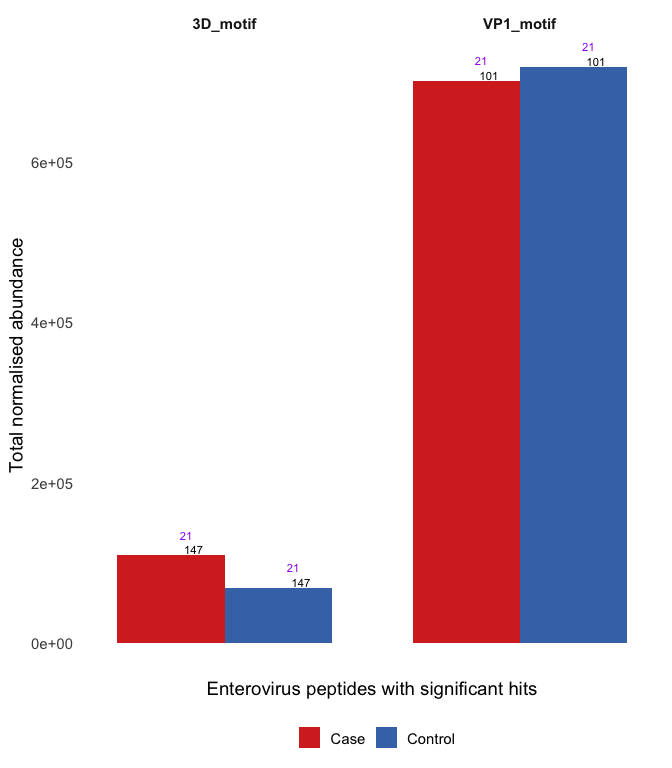
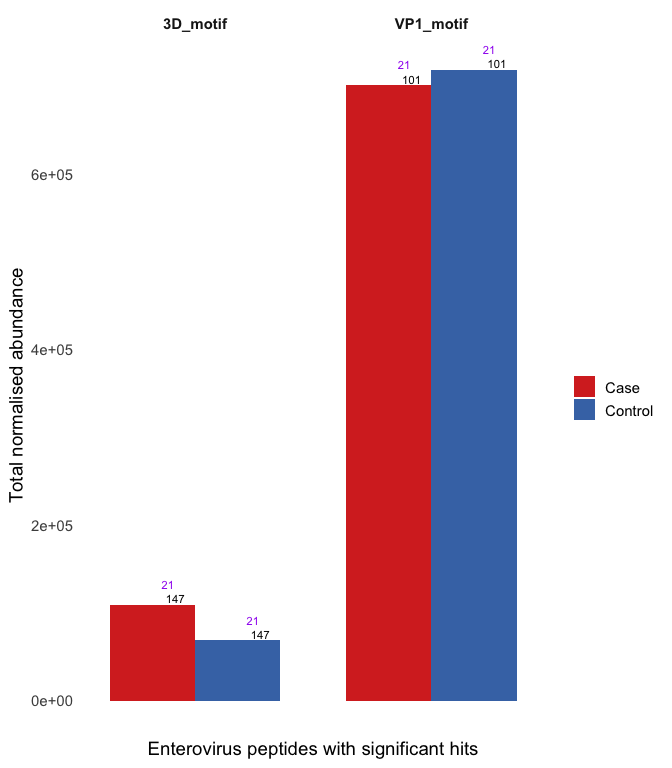
tidied up :broom:

diff --git a/04_test_peak_significance.md b/04_test_peak_significance.md
@@ -8,16 +8,16 @@ library(glmmTMB)
 library(gt)
 ```
 
-Use data prepared in `01_figure_01_CXVB_antigen_mapping.Rmd` and add
-extra metadata for VIGR so we can include maternal T1D status in the
-models
+Read in data prepared in `00_prepare_datasets.Rmd` and add normalised
+counts measured in RPK and library size log variable to use as an offset
+for sequencing depth
 
 ``` r
 endia_virscan_onset <- read_rds("cache/endia_virscan_metadata.rds") %>%
   filter(onset_visit == 1) %>% 
   group_by(sample_id) %>% 
   mutate(rpk = abundance / sum(abundance) * 100000,
-         log_lib = log(sum(abundance) + 1e-8)) %>%  # add offset for testing 
+         log_lib = log(sum(abundance) + 1e-8)) %>%  # add offset 
   ungroup()
 
 vigr_virscan_metadata <- read_rds("cache/vigr_virscan_metadata.rds") %>% 
@@ -25,13 +25,6 @@ vigr_virscan_metadata <- read_rds("cache/vigr_virscan_metadata.rds") %>%
   mutate(rpk = abundance / sum(abundance) * 100000,
          log_lib = log(sum(abundance) + 1e-8)) %>% 
   ungroup()
-
-vigr_extra_metadata <- readxl::read_xlsx("raw_data/metadata/VIGR_HLA.xlsx") %>% 
-  select(Participant_Id, UNSW, Diabetes, Risk_group) %>% 
-  mutate(maternal_T1D = if_else(Diabetes == "Mother", "1", "0"))
-
-vigr_virscan_metadata_w_maternal_T1D <- vigr_virscan_metadata %>% 
-  left_join(vigr_extra_metadata, join_by(sample_id == Participant_Id, UNSW))
 ```
 
 ``` bash
@@ -53,7 +46,7 @@ endia_motif_results <- endia_blastp_ev_motifs %>%
     left_join(endia_virscan_onset, by = join_by(qaccver == pep_id)) 
 
 vigr_motif_results <- vigr_blastp_ev_motifs %>% 
-   left_join(vigr_virscan_metadata_w_maternal_T1D, by = join_by(qaccver == pep_id))
+   left_join(vigr_virscan_metadata, by = join_by(qaccver == pep_id))
 ```
 
 ## ENDIA
@@ -83,7 +76,7 @@ endia_motif_w_genera %>%
             vjust = -2, hjust = -0.7, size = 3, color = "purple") +
   facet_wrap(~ saccver) +
   theme_minimal(base_size = 14) +
-  theme(legend.position = "bottom",
+  theme(legend.position = "right",
         line = element_blank(),
       axis.text.x = element_blank(), 
       strip.text = element_text(face = "bold")) +
@@ -108,7 +101,7 @@ tidy_looksie <- function(glm_model) {
     glm_model %>% 
     broom.mixed::tidy(effect = "fixed", conf.int = TRUE, exponentiate = TRUE) %>% 
     select(term, estimate, p.value, conf.low, conf.high) %>% 
-    mutate(significant = ifelse(p.value <= 0.10, T, F))}
+    mutate(significant = ifelse(p.value < 0.1, T, F))}
 ```
 
 ### Stats ENDIA
@@ -202,7 +195,7 @@ endia_3d_model_xy %>% tidy_looksie()
     ## 6 age_sample_collection_month   1.00    0.842   0.958       1.05  FALSE      
     ## 7 maternal_T1D1                 0.604   0.464   0.157       2.32  FALSE
 
-3D doesn’t seem to be a good predictor for IA. However, there is
+3D does not appear to be a good predictor for IA. However, there is
 enrichment of 3D in cases
 
 This enrichment appears in a statistical test too:
@@ -414,7 +407,7 @@ vigr_motif_w_genera %>%
             vjust = -2, hjust = -0.7, size = 3, color = "purple") +
   facet_wrap(~ saccver) +
   theme_minimal(base_size = 14) +
-  theme(legend.position = "bottom",
+  theme(legend.position = "right",
         line = element_blank(),
       axis.text.x = element_blank(), 
       strip.text = element_text(face = "bold")) +
@@ -484,7 +477,7 @@ vigr_3d_model %>% tidy_looksie()
     ## 4 HLA_StatusUnknown    1.21    0.862   0.147       9.93 FALSE      
     ## 5 Age                  1.00    0.988   0.867       1.16 FALSE      
     ## 6 SexM                 1.05    0.912   0.410       2.72 FALSE      
-    ## 7 maternal_T1D1        0.503   0.194   0.178       1.42 FALSE
+    ## 7 maternal_T1DT1D      0.503   0.194   0.178       1.42 FALSE
 
 ``` r
 vigr_3d_abundance_as_outcome <- glmmTMB(formula = total_abundance ~ Condition + HLA_Status + Age + Sex + maternal_T1D + offset(log_lib) + (1|Nest) + (1|My_name),
@@ -504,7 +497,7 @@ vigr_3d_abundance_as_outcome %>% tidy_looksie()
     ## 4 HLA_StatusUnknown    0.572 0.579      0.0799     4.10  FALSE      
     ## 5 Age                  0.825 0.00205    0.730      0.932 TRUE       
     ## 6 SexM                 0.670 0.382      0.273      1.64  FALSE      
-    ## 7 maternal_T1D1        0.779 0.591      0.313      1.94  FALSE
+    ## 7 maternal_T1DT1D      0.779 0.591      0.313      1.94  FALSE
 
 #### VIGR VP1 region
 
@@ -527,7 +520,7 @@ vigr_vp1_model %>% tidy_looksie()
     ## 4 HLA_StatusUnknown    1.09    0.935 0.135          8.80 FALSE      
     ## 5 Age                  0.983   0.802 0.862          1.12 FALSE      
     ## 6 SexM                 1.01    0.988 0.390          2.60 FALSE      
-    ## 7 maternal_T1D1        0.468   0.156 0.164          1.33 FALSE
+    ## 7 maternal_T1DT1D      0.468   0.156 0.164          1.33 FALSE
 
 #### VIGR VP1 Sex stratified
 
@@ -544,13 +537,13 @@ vigr_vp1_xx_model %>% tidy_looksie()
 ```
 
     ## # A tibble: 5 × 6
-    ##   term           estimate p.value  conf.low     conf.high significant
-    ##   <chr>             <dbl>   <dbl>     <dbl>         <dbl> <lgl>      
-    ## 1 (Intercept)     606.      0.431 0.0000732 5015163363.   FALSE      
-    ## 2 log_total_rpk     0.502   0.379 0.108              2.33 FALSE      
-    ## 3 HLA_StatusRisk    1.40    0.629 0.355              5.56 FALSE      
-    ## 4 Age               1.00    0.999 0.833              1.20 FALSE      
-    ## 5 maternal_T1D1     0.559   0.408 0.141              2.22 FALSE
+    ##   term            estimate p.value  conf.low     conf.high significant
+    ##   <chr>              <dbl>   <dbl>     <dbl>         <dbl> <lgl>      
+    ## 1 (Intercept)      606.      0.431 0.0000732 5015163363.   FALSE      
+    ## 2 log_total_rpk      0.502   0.379 0.108              2.33 FALSE      
+    ## 3 HLA_StatusRisk     1.40    0.629 0.355              5.56 FALSE      
+    ## 4 Age                1.00    0.999 0.833              1.20 FALSE      
+    ## 5 maternal_T1DT1D    0.559   0.408 0.141              2.22 FALSE
 
 Males VP1 motif
 
@@ -572,7 +565,7 @@ vigr_vp1_xy_model %>% tidy_looksie()
     ## 3 HLA_StatusRisk      0.431    0.378 6.63e- 2       2.80 FALSE      
     ## 4 HLA_StatusUnknown   0.936    0.952 1.08e- 1       8.10 FALSE      
     ## 5 Age                 0.980    0.840 8.09e- 1       1.19 FALSE      
-    ## 6 maternal_T1D1       0.297    0.161 5.45e- 2       1.62 FALSE
+    ## 6 maternal_T1DT1D     0.297    0.161 5.45e- 2       1.62 FALSE
 
 ### Generating pretty tables with the `gt` package from the GLM model results
 
@@ -580,7 +573,7 @@ vigr_vp1_xy_model %>% tidy_looksie()
 
 **ENDIA**
 
-<div id="cqvbnkhzsh" style="padding-left:0px;padding-right:0px;padding-top:10px;padding-bottom:10px;overflow-x:auto;overflow-y:auto;width:auto;height:auto;">
+<div id="mhqnnyjzkk" style="padding-left:0px;padding-right:0px;padding-top:10px;padding-bottom:10px;overflow-x:auto;overflow-y:auto;width:auto;height:auto;">
   &#10;  <table class="gt_table" data-quarto-disable-processing="false" data-quarto-bootstrap="false" style="-webkit-font-smoothing: antialiased; -moz-osx-font-smoothing: grayscale; font-family: system-ui, 'Segoe UI', Roboto, Helvetica, Arial, sans-serif, 'Apple Color Emoji', 'Segoe UI Emoji', 'Segoe UI Symbol', 'Noto Color Emoji'; display: table; border-collapse: collapse; line-height: normal; margin-left: auto; margin-right: auto; color: #333333; font-size: 16px; font-weight: normal; font-style: normal; background-color: #FFFFFF; width: auto; border-top-style: solid; border-top-width: 2px; border-top-color: #A8A8A8; border-right-style: none; border-right-width: 2px; border-right-color: #D3D3D3; border-bottom-style: solid; border-bottom-width: 2px; border-bottom-color: #A8A8A8; border-left-style: none; border-left-width: 2px; border-left-color: #D3D3D3;" bgcolor="#FFFFFF">
   <thead style="border-style: none;">
     <tr class="gt_heading" style="border-style: none; background-color: #FFFFFF; text-align: center; border-bottom-color: #FFFFFF; border-left-style: none; border-left-width: 1px; border-left-color: #D3D3D3; border-right-style: none; border-right-width: 1px; border-right-color: #D3D3D3;" bgcolor="#FFFFFF" align="center">
@@ -668,7 +661,7 @@ vigr_vp1_xy_model %>% tidy_looksie()
 
 **VIGR**
 
-<div id="ihpbblaoka" style="padding-left:0px;padding-right:0px;padding-top:10px;padding-bottom:10px;overflow-x:auto;overflow-y:auto;width:auto;height:auto;">
+<div id="tyaapnkbfg" style="padding-left:0px;padding-right:0px;padding-top:10px;padding-bottom:10px;overflow-x:auto;overflow-y:auto;width:auto;height:auto;">
   &#10;  <table class="gt_table" data-quarto-disable-processing="false" data-quarto-bootstrap="false" style="-webkit-font-smoothing: antialiased; -moz-osx-font-smoothing: grayscale; font-family: system-ui, 'Segoe UI', Roboto, Helvetica, Arial, sans-serif, 'Apple Color Emoji', 'Segoe UI Emoji', 'Segoe UI Symbol', 'Noto Color Emoji'; display: table; border-collapse: collapse; line-height: normal; margin-left: auto; margin-right: auto; color: #333333; font-size: 16px; font-weight: normal; font-style: normal; background-color: #FFFFFF; width: auto; border-top-style: solid; border-top-width: 2px; border-top-color: #A8A8A8; border-right-style: none; border-right-width: 2px; border-right-color: #D3D3D3; border-bottom-style: solid; border-bottom-width: 2px; border-bottom-color: #A8A8A8; border-left-style: none; border-left-width: 2px; border-left-color: #D3D3D3;" bgcolor="#FFFFFF">
   <thead style="border-style: none;">
     <tr class="gt_heading" style="border-style: none; background-color: #FFFFFF; text-align: center; border-bottom-color: #FFFFFF; border-left-style: none; border-left-width: 1px; border-left-color: #D3D3D3; border-right-style: none; border-right-width: 1px; border-right-color: #D3D3D3;" bgcolor="#FFFFFF" align="center">
@@ -706,7 +699,7 @@ vigr_vp1_xy_model %>% tidy_looksie()
 <td headers="VIGR males (Case n = 11, Control n = 11) stub_1_4 CI lower" class="gt_row gt_left" style="border-style: none; padding-top: 8px; padding-bottom: 8px; padding-left: 5px; padding-right: 5px; margin: 10px; border-top-style: solid; border-top-width: 1px; border-top-color: #D3D3D3; border-left-style: none; border-left-width: 1px; border-left-color: #D3D3D3; border-right-style: none; border-right-width: 1px; border-right-color: #D3D3D3; vertical-align: middle; overflow-x: hidden; text-align: left;" valign="middle" align="left">0.809</td>
 <td headers="VIGR males (Case n = 11, Control n = 11) stub_1_4 CI upper" class="gt_row gt_left" style="border-style: none; padding-top: 8px; padding-bottom: 8px; padding-left: 5px; padding-right: 5px; margin: 10px; border-top-style: solid; border-top-width: 1px; border-top-color: #D3D3D3; border-left-style: none; border-left-width: 1px; border-left-color: #D3D3D3; border-right-style: none; border-right-width: 1px; border-right-color: #D3D3D3; vertical-align: middle; overflow-x: hidden; text-align: left;" valign="middle" align="left">1.188</td>
 <td headers="VIGR males (Case n = 11, Control n = 11) stub_1_4 p.value" class="gt_row gt_left" style="border-style: none; padding-top: 8px; padding-bottom: 8px; padding-left: 5px; padding-right: 5px; margin: 10px; border-top-style: solid; border-top-width: 1px; border-top-color: #D3D3D3; border-left-style: none; border-left-width: 1px; border-left-color: #D3D3D3; border-right-style: none; border-right-width: 1px; border-right-color: #D3D3D3; vertical-align: middle; overflow-x: hidden; text-align: left;" valign="middle" align="left">0.840</td></tr>
-    <tr style="border-style: none;"><th id="stub_1_5" scope="row" class="gt_row gt_left gt_stub" style="border-style: none; padding-top: 8px; padding-bottom: 8px; margin: 10px; border-top-style: solid; border-top-width: 1px; border-top-color: #D3D3D3; border-left-style: none; border-left-width: 1px; border-left-color: #D3D3D3; vertical-align: middle; overflow-x: hidden; color: #333333; background-color: #FFFFFF; font-size: 100%; font-weight: initial; text-transform: inherit; border-right-style: solid; border-right-width: 2px; border-right-color: #D3D3D3; padding-left: 5px; padding-right: 5px; text-align: left;" valign="middle" bgcolor="#FFFFFF" align="left">maternal_T1D1</th>
+    <tr style="border-style: none;"><th id="stub_1_5" scope="row" class="gt_row gt_left gt_stub" style="border-style: none; padding-top: 8px; padding-bottom: 8px; margin: 10px; border-top-style: solid; border-top-width: 1px; border-top-color: #D3D3D3; border-left-style: none; border-left-width: 1px; border-left-color: #D3D3D3; vertical-align: middle; overflow-x: hidden; color: #333333; background-color: #FFFFFF; font-size: 100%; font-weight: initial; text-transform: inherit; border-right-style: solid; border-right-width: 2px; border-right-color: #D3D3D3; padding-left: 5px; padding-right: 5px; text-align: left;" valign="middle" bgcolor="#FFFFFF" align="left">maternal_T1DT1D</th>
 <td headers="VIGR males (Case n = 11, Control n = 11) stub_1_5 RR" class="gt_row gt_left" style="border-style: none; padding-top: 8px; padding-bottom: 8px; padding-left: 5px; padding-right: 5px; margin: 10px; border-top-style: solid; border-top-width: 1px; border-top-color: #D3D3D3; border-left-style: none; border-left-width: 1px; border-left-color: #D3D3D3; border-right-style: none; border-right-width: 1px; border-right-color: #D3D3D3; vertical-align: middle; overflow-x: hidden; text-align: left;" valign="middle" align="left">0.297</td>
 <td headers="VIGR males (Case n = 11, Control n = 11) stub_1_5 CI lower" class="gt_row gt_left" style="border-style: none; padding-top: 8px; padding-bottom: 8px; padding-left: 5px; padding-right: 5px; margin: 10px; border-top-style: solid; border-top-width: 1px; border-top-color: #D3D3D3; border-left-style: none; border-left-width: 1px; border-left-color: #D3D3D3; border-right-style: none; border-right-width: 1px; border-right-color: #D3D3D3; vertical-align: middle; overflow-x: hidden; text-align: left;" valign="middle" align="left">0.054</td>
 <td headers="VIGR males (Case n = 11, Control n = 11) stub_1_5 CI upper" class="gt_row gt_left" style="border-style: none; padding-top: 8px; padding-bottom: 8px; padding-left: 5px; padding-right: 5px; margin: 10px; border-top-style: solid; border-top-width: 1px; border-top-color: #D3D3D3; border-left-style: none; border-left-width: 1px; border-left-color: #D3D3D3; border-right-style: none; border-right-width: 1px; border-right-color: #D3D3D3; vertical-align: middle; overflow-x: hidden; text-align: left;" valign="middle" align="left">1.622</td>
@@ -729,7 +722,7 @@ vigr_vp1_xy_model %>% tidy_looksie()
 <td headers="VIGR females (Case n = 10, Control n = 10) stub_1_8 CI lower" class="gt_row gt_left" style="border-style: none; padding-top: 8px; padding-bottom: 8px; padding-left: 5px; padding-right: 5px; margin: 10px; border-top-style: solid; border-top-width: 1px; border-top-color: #D3D3D3; border-left-style: none; border-left-width: 1px; border-left-color: #D3D3D3; border-right-style: none; border-right-width: 1px; border-right-color: #D3D3D3; vertical-align: middle; overflow-x: hidden; text-align: left;" valign="middle" align="left">0.833</td>
 <td headers="VIGR females (Case n = 10, Control n = 10) stub_1_8 CI upper" class="gt_row gt_left" style="border-style: none; padding-top: 8px; padding-bottom: 8px; padding-left: 5px; padding-right: 5px; margin: 10px; border-top-style: solid; border-top-width: 1px; border-top-color: #D3D3D3; border-left-style: none; border-left-width: 1px; border-left-color: #D3D3D3; border-right-style: none; border-right-width: 1px; border-right-color: #D3D3D3; vertical-align: middle; overflow-x: hidden; text-align: left;" valign="middle" align="left">1.200</td>
 <td headers="VIGR females (Case n = 10, Control n = 10) stub_1_8 p.value" class="gt_row gt_left" style="border-style: none; padding-top: 8px; padding-bottom: 8px; padding-left: 5px; padding-right: 5px; margin: 10px; border-top-style: solid; border-top-width: 1px; border-top-color: #D3D3D3; border-left-style: none; border-left-width: 1px; border-left-color: #D3D3D3; border-right-style: none; border-right-width: 1px; border-right-color: #D3D3D3; vertical-align: middle; overflow-x: hidden; text-align: left;" valign="middle" align="left">0.999</td></tr>
-    <tr style="border-style: none;"><th id="stub_1_9" scope="row" class="gt_row gt_left gt_stub" style="border-style: none; padding-top: 8px; padding-bottom: 8px; margin: 10px; border-top-style: solid; border-top-width: 1px; border-top-color: #D3D3D3; border-left-style: none; border-left-width: 1px; border-left-color: #D3D3D3; vertical-align: middle; overflow-x: hidden; color: #333333; background-color: #FFFFFF; font-size: 100%; font-weight: initial; text-transform: inherit; border-right-style: solid; border-right-width: 2px; border-right-color: #D3D3D3; padding-left: 5px; padding-right: 5px; text-align: left;" valign="middle" bgcolor="#FFFFFF" align="left">maternal_T1D1</th>
+    <tr style="border-style: none;"><th id="stub_1_9" scope="row" class="gt_row gt_left gt_stub" style="border-style: none; padding-top: 8px; padding-bottom: 8px; margin: 10px; border-top-style: solid; border-top-width: 1px; border-top-color: #D3D3D3; border-left-style: none; border-left-width: 1px; border-left-color: #D3D3D3; vertical-align: middle; overflow-x: hidden; color: #333333; background-color: #FFFFFF; font-size: 100%; font-weight: initial; text-transform: inherit; border-right-style: solid; border-right-width: 2px; border-right-color: #D3D3D3; padding-left: 5px; padding-right: 5px; text-align: left;" valign="middle" bgcolor="#FFFFFF" align="left">maternal_T1DT1D</th>
 <td headers="VIGR females (Case n = 10, Control n = 10) stub_1_9 RR" class="gt_row gt_left" style="border-style: none; padding-top: 8px; padding-bottom: 8px; padding-left: 5px; padding-right: 5px; margin: 10px; border-top-style: solid; border-top-width: 1px; border-top-color: #D3D3D3; border-left-style: none; border-left-width: 1px; border-left-color: #D3D3D3; border-right-style: none; border-right-width: 1px; border-right-color: #D3D3D3; vertical-align: middle; overflow-x: hidden; text-align: left;" valign="middle" align="left">0.559</td>
 <td headers="VIGR females (Case n = 10, Control n = 10) stub_1_9 CI lower" class="gt_row gt_left" style="border-style: none; padding-top: 8px; padding-bottom: 8px; padding-left: 5px; padding-right: 5px; margin: 10px; border-top-style: solid; border-top-width: 1px; border-top-color: #D3D3D3; border-left-style: none; border-left-width: 1px; border-left-color: #D3D3D3; border-right-style: none; border-right-width: 1px; border-right-color: #D3D3D3; vertical-align: middle; overflow-x: hidden; text-align: left;" valign="middle" align="left">0.141</td>
 <td headers="VIGR females (Case n = 10, Control n = 10) stub_1_9 CI upper" class="gt_row gt_left" style="border-style: none; padding-top: 8px; padding-bottom: 8px; padding-left: 5px; padding-right: 5px; margin: 10px; border-top-style: solid; border-top-width: 1px; border-top-color: #D3D3D3; border-left-style: none; border-left-width: 1px; border-left-color: #D3D3D3; border-right-style: none; border-right-width: 1px; border-right-color: #D3D3D3; vertical-align: middle; overflow-x: hidden; text-align: left;" valign="middle" align="left">2.217</td>
@@ -743,7 +736,7 @@ vigr_vp1_xy_model %>% tidy_looksie()
 
 **ENDIA**
 
-<div id="lxpbpcsgoh" style="padding-left:0px;padding-right:0px;padding-top:10px;padding-bottom:10px;overflow-x:auto;overflow-y:auto;width:auto;height:auto;">
+<div id="xryxrnpqkp" style="padding-left:0px;padding-right:0px;padding-top:10px;padding-bottom:10px;overflow-x:auto;overflow-y:auto;width:auto;height:auto;">
   &#10;  <table class="gt_table" data-quarto-disable-processing="false" data-quarto-bootstrap="false" style="-webkit-font-smoothing: antialiased; -moz-osx-font-smoothing: grayscale; font-family: system-ui, 'Segoe UI', Roboto, Helvetica, Arial, sans-serif, 'Apple Color Emoji', 'Segoe UI Emoji', 'Segoe UI Symbol', 'Noto Color Emoji'; display: table; border-collapse: collapse; line-height: normal; margin-left: auto; margin-right: auto; color: #333333; font-size: 16px; font-weight: normal; font-style: normal; background-color: #FFFFFF; width: auto; border-top-style: solid; border-top-width: 2px; border-top-color: #A8A8A8; border-right-style: none; border-right-width: 2px; border-right-color: #D3D3D3; border-bottom-style: solid; border-bottom-width: 2px; border-bottom-color: #A8A8A8; border-left-style: none; border-left-width: 2px; border-left-color: #D3D3D3;" bgcolor="#FFFFFF">
   <thead style="border-style: none;">
     <tr class="gt_heading" style="border-style: none; background-color: #FFFFFF; text-align: center; border-bottom-color: #FFFFFF; border-left-style: none; border-left-width: 1px; border-left-color: #D3D3D3; border-right-style: none; border-right-width: 1px; border-right-color: #D3D3D3;" bgcolor="#FFFFFF" align="center">
@@ -841,7 +834,7 @@ vigr_vp1_xy_model %>% tidy_looksie()
 
 **VIGR**
 
-<div id="rchgdlsift" style="padding-left:0px;padding-right:0px;padding-top:10px;padding-bottom:10px;overflow-x:auto;overflow-y:auto;width:auto;height:auto;">
+<div id="jusareqaai" style="padding-left:0px;padding-right:0px;padding-top:10px;padding-bottom:10px;overflow-x:auto;overflow-y:auto;width:auto;height:auto;">
   &#10;  <table class="gt_table" data-quarto-disable-processing="false" data-quarto-bootstrap="false" style="-webkit-font-smoothing: antialiased; -moz-osx-font-smoothing: grayscale; font-family: system-ui, 'Segoe UI', Roboto, Helvetica, Arial, sans-serif, 'Apple Color Emoji', 'Segoe UI Emoji', 'Segoe UI Symbol', 'Noto Color Emoji'; display: table; border-collapse: collapse; line-height: normal; margin-left: auto; margin-right: auto; color: #333333; font-size: 16px; font-weight: normal; font-style: normal; background-color: #FFFFFF; width: auto; border-top-style: solid; border-top-width: 2px; border-top-color: #A8A8A8; border-right-style: none; border-right-width: 2px; border-right-color: #D3D3D3; border-bottom-style: solid; border-bottom-width: 2px; border-bottom-color: #A8A8A8; border-left-style: none; border-left-width: 2px; border-left-color: #D3D3D3;" bgcolor="#FFFFFF">
   <thead style="border-style: none;">
     <tr class="gt_heading" style="border-style: none; background-color: #FFFFFF; text-align: center; border-bottom-color: #FFFFFF; border-left-style: none; border-left-width: 1px; border-left-color: #D3D3D3; border-right-style: none; border-right-width: 1px; border-right-color: #D3D3D3;" bgcolor="#FFFFFF" align="center">
@@ -884,7 +877,7 @@ vigr_vp1_xy_model %>% tidy_looksie()
 <td headers="VIGR EV antibody response as outcome variable stub_1_5 CI lower" class="gt_row gt_left" style="border-style: none; padding-top: 8px; padding-bottom: 8px; padding-left: 5px; padding-right: 5px; margin: 10px; border-top-style: solid; border-top-width: 1px; border-top-color: #D3D3D3; border-left-style: none; border-left-width: 1px; border-left-color: #D3D3D3; border-right-style: none; border-right-width: 1px; border-right-color: #D3D3D3; vertical-align: middle; overflow-x: hidden; text-align: left;" valign="middle" align="left">0.273</td>
 <td headers="VIGR EV antibody response as outcome variable stub_1_5 CI upper" class="gt_row gt_left" style="border-style: none; padding-top: 8px; padding-bottom: 8px; padding-left: 5px; padding-right: 5px; margin: 10px; border-top-style: solid; border-top-width: 1px; border-top-color: #D3D3D3; border-left-style: none; border-left-width: 1px; border-left-color: #D3D3D3; border-right-style: none; border-right-width: 1px; border-right-color: #D3D3D3; vertical-align: middle; overflow-x: hidden; text-align: left;" valign="middle" align="left">1.643</td>
 <td headers="VIGR EV antibody response as outcome variable stub_1_5 p.value" class="gt_row gt_left" style="border-style: none; padding-top: 8px; padding-bottom: 8px; padding-left: 5px; padding-right: 5px; margin: 10px; border-top-style: solid; border-top-width: 1px; border-top-color: #D3D3D3; border-left-style: none; border-left-width: 1px; border-left-color: #D3D3D3; border-right-style: none; border-right-width: 1px; border-right-color: #D3D3D3; vertical-align: middle; overflow-x: hidden; text-align: left;" valign="middle" align="left">0.382</td></tr>
-    <tr style="border-style: none;"><th id="stub_1_6" scope="row" class="gt_row gt_left gt_stub" style="border-style: none; padding-top: 8px; padding-bottom: 8px; margin: 10px; border-top-style: solid; border-top-width: 1px; border-top-color: #D3D3D3; border-left-style: none; border-left-width: 1px; border-left-color: #D3D3D3; vertical-align: middle; overflow-x: hidden; color: #333333; background-color: #FFFFFF; font-size: 100%; font-weight: initial; text-transform: inherit; border-right-style: solid; border-right-width: 2px; border-right-color: #D3D3D3; padding-left: 5px; padding-right: 5px; text-align: left;" valign="middle" bgcolor="#FFFFFF" align="left">maternal_T1D1</th>
+    <tr style="border-style: none;"><th id="stub_1_6" scope="row" class="gt_row gt_left gt_stub" style="border-style: none; padding-top: 8px; padding-bottom: 8px; margin: 10px; border-top-style: solid; border-top-width: 1px; border-top-color: #D3D3D3; border-left-style: none; border-left-width: 1px; border-left-color: #D3D3D3; vertical-align: middle; overflow-x: hidden; color: #333333; background-color: #FFFFFF; font-size: 100%; font-weight: initial; text-transform: inherit; border-right-style: solid; border-right-width: 2px; border-right-color: #D3D3D3; padding-left: 5px; padding-right: 5px; text-align: left;" valign="middle" bgcolor="#FFFFFF" align="left">maternal_T1DT1D</th>
 <td headers="VIGR EV antibody response as outcome variable stub_1_6 RR" class="gt_row gt_left" style="border-style: none; padding-top: 8px; padding-bottom: 8px; padding-left: 5px; padding-right: 5px; margin: 10px; border-top-style: solid; border-top-width: 1px; border-top-color: #D3D3D3; border-left-style: none; border-left-width: 1px; border-left-color: #D3D3D3; border-right-style: none; border-right-width: 1px; border-right-color: #D3D3D3; vertical-align: middle; overflow-x: hidden; text-align: left;" valign="middle" align="left">0.779</td>
 <td headers="VIGR EV antibody response as outcome variable stub_1_6 CI lower" class="gt_row gt_left" style="border-style: none; padding-top: 8px; padding-bottom: 8px; padding-left: 5px; padding-right: 5px; margin: 10px; border-top-style: solid; border-top-width: 1px; border-top-color: #D3D3D3; border-left-style: none; border-left-width: 1px; border-left-color: #D3D3D3; border-right-style: none; border-right-width: 1px; border-right-color: #D3D3D3; vertical-align: middle; overflow-x: hidden; text-align: left;" valign="middle" align="left">0.313</td>
 <td headers="VIGR EV antibody response as outcome variable stub_1_6 CI upper" class="gt_row gt_left" style="border-style: none; padding-top: 8px; padding-bottom: 8px; padding-left: 5px; padding-right: 5px; margin: 10px; border-top-style: solid; border-top-width: 1px; border-top-color: #D3D3D3; border-left-style: none; border-left-width: 1px; border-left-color: #D3D3D3; border-right-style: none; border-right-width: 1px; border-right-color: #D3D3D3; vertical-align: middle; overflow-x: hidden; text-align: left;" valign="middle" align="left">1.937</td>
@@ -917,7 +910,7 @@ vigr_vp1_xy_model %>% tidy_looksie()
 <td headers="VIGR case as outcome variable stub_1_11 CI lower" class="gt_row gt_left" style="border-style: none; padding-top: 8px; padding-bottom: 8px; padding-left: 5px; padding-right: 5px; margin: 10px; border-top-style: solid; border-top-width: 1px; border-top-color: #D3D3D3; border-left-style: none; border-left-width: 1px; border-left-color: #D3D3D3; border-right-style: none; border-right-width: 1px; border-right-color: #D3D3D3; vertical-align: middle; overflow-x: hidden; text-align: left;" valign="middle" align="left">0.410</td>
 <td headers="VIGR case as outcome variable stub_1_11 CI upper" class="gt_row gt_left" style="border-style: none; padding-top: 8px; padding-bottom: 8px; padding-left: 5px; padding-right: 5px; margin: 10px; border-top-style: solid; border-top-width: 1px; border-top-color: #D3D3D3; border-left-style: none; border-left-width: 1px; border-left-color: #D3D3D3; border-right-style: none; border-right-width: 1px; border-right-color: #D3D3D3; vertical-align: middle; overflow-x: hidden; text-align: left;" valign="middle" align="left">2.716</td>
 <td headers="VIGR case as outcome variable stub_1_11 p.value" class="gt_row gt_left" style="border-style: none; padding-top: 8px; padding-bottom: 8px; padding-left: 5px; padding-right: 5px; margin: 10px; border-top-style: solid; border-top-width: 1px; border-top-color: #D3D3D3; border-left-style: none; border-left-width: 1px; border-left-color: #D3D3D3; border-right-style: none; border-right-width: 1px; border-right-color: #D3D3D3; vertical-align: middle; overflow-x: hidden; text-align: left;" valign="middle" align="left">0.912</td></tr>
-    <tr style="border-style: none;"><th id="stub_1_12" scope="row" class="gt_row gt_left gt_stub" style="border-style: none; padding-top: 8px; padding-bottom: 8px; margin: 10px; border-top-style: solid; border-top-width: 1px; border-top-color: #D3D3D3; border-left-style: none; border-left-width: 1px; border-left-color: #D3D3D3; vertical-align: middle; overflow-x: hidden; color: #333333; background-color: #FFFFFF; font-size: 100%; font-weight: initial; text-transform: inherit; border-right-style: solid; border-right-width: 2px; border-right-color: #D3D3D3; padding-left: 5px; padding-right: 5px; text-align: left;" valign="middle" bgcolor="#FFFFFF" align="left">maternal_T1D1</th>
+    <tr style="border-style: none;"><th id="stub_1_12" scope="row" class="gt_row gt_left gt_stub" style="border-style: none; padding-top: 8px; padding-bottom: 8px; margin: 10px; border-top-style: solid; border-top-width: 1px; border-top-color: #D3D3D3; border-left-style: none; border-left-width: 1px; border-left-color: #D3D3D3; vertical-align: middle; overflow-x: hidden; color: #333333; background-color: #FFFFFF; font-size: 100%; font-weight: initial; text-transform: inherit; border-right-style: solid; border-right-width: 2px; border-right-color: #D3D3D3; padding-left: 5px; padding-right: 5px; text-align: left;" valign="middle" bgcolor="#FFFFFF" align="left">maternal_T1DT1D</th>
 <td headers="VIGR case as outcome variable stub_1_12 RR" class="gt_row gt_left" style="border-style: none; padding-top: 8px; padding-bottom: 8px; padding-left: 5px; padding-right: 5px; margin: 10px; border-top-style: solid; border-top-width: 1px; border-top-color: #D3D3D3; border-left-style: none; border-left-width: 1px; border-left-color: #D3D3D3; border-right-style: none; border-right-width: 1px; border-right-color: #D3D3D3; vertical-align: middle; overflow-x: hidden; text-align: left;" valign="middle" align="left">0.503</td>
 <td headers="VIGR case as outcome variable stub_1_12 CI lower" class="gt_row gt_left" style="border-style: none; padding-top: 8px; padding-bottom: 8px; padding-left: 5px; padding-right: 5px; margin: 10px; border-top-style: solid; border-top-width: 1px; border-top-color: #D3D3D3; border-left-style: none; border-left-width: 1px; border-left-color: #D3D3D3; border-right-style: none; border-right-width: 1px; border-right-color: #D3D3D3; vertical-align: middle; overflow-x: hidden; text-align: left;" valign="middle" align="left">0.178</td>
 <td headers="VIGR case as outcome variable stub_1_12 CI upper" class="gt_row gt_left" style="border-style: none; padding-top: 8px; padding-bottom: 8px; padding-left: 5px; padding-right: 5px; margin: 10px; border-top-style: solid; border-top-width: 1px; border-top-color: #D3D3D3; border-left-style: none; border-left-width: 1px; border-left-color: #D3D3D3; border-right-style: none; border-right-width: 1px; border-right-color: #D3D3D3; vertical-align: middle; overflow-x: hidden; text-align: left;" valign="middle" align="left">1.420</td>
